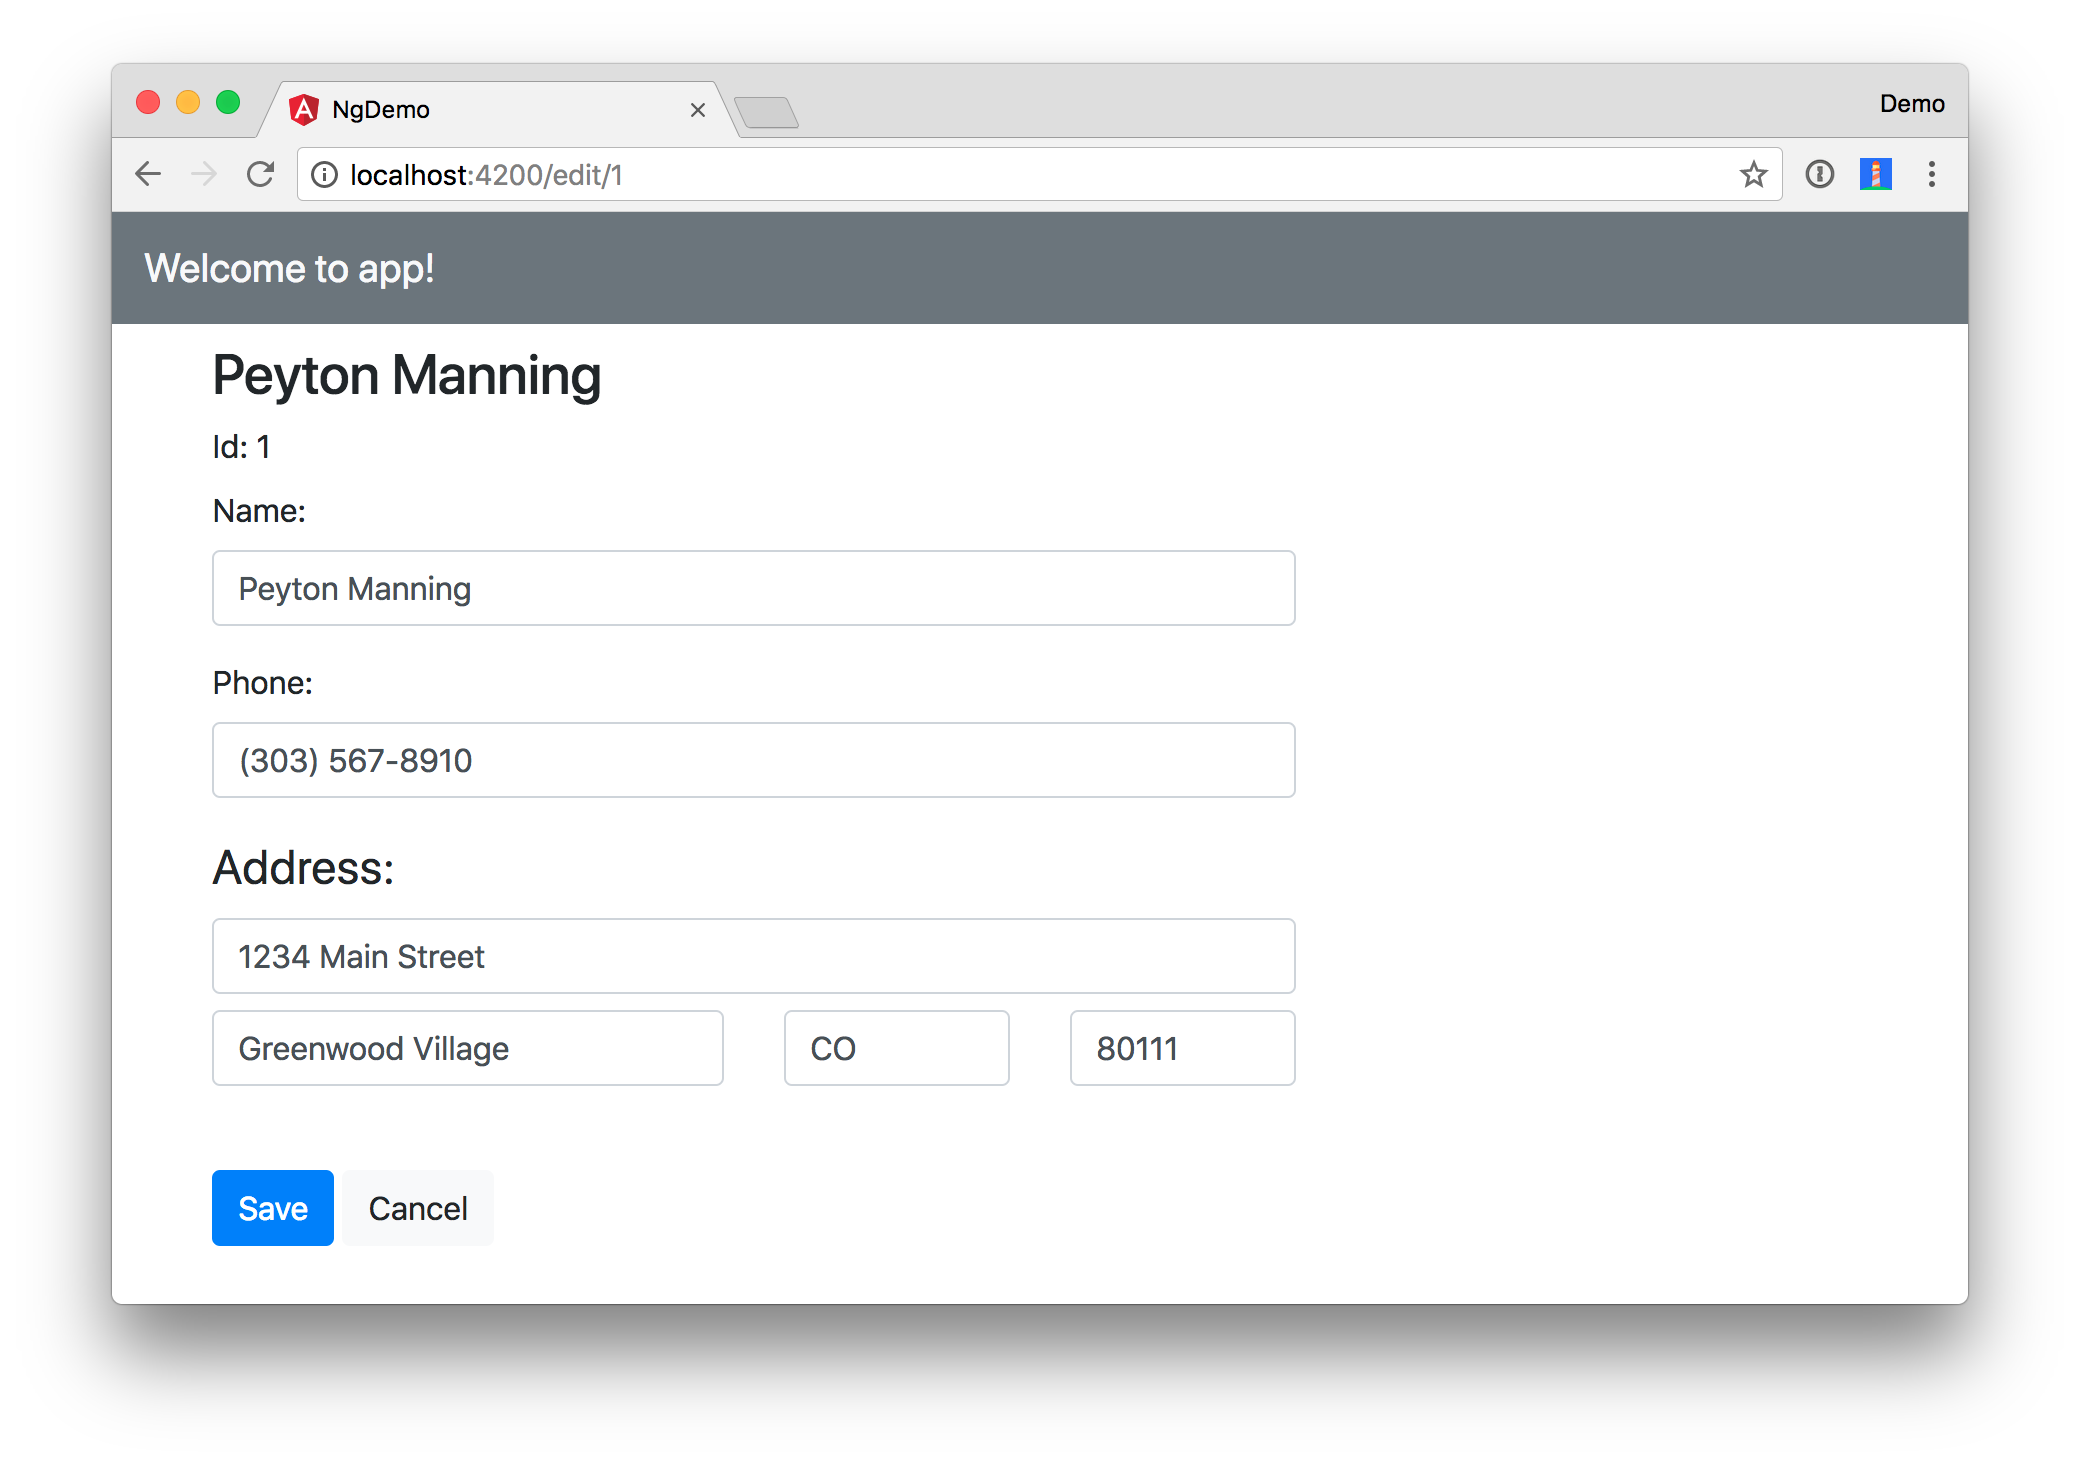
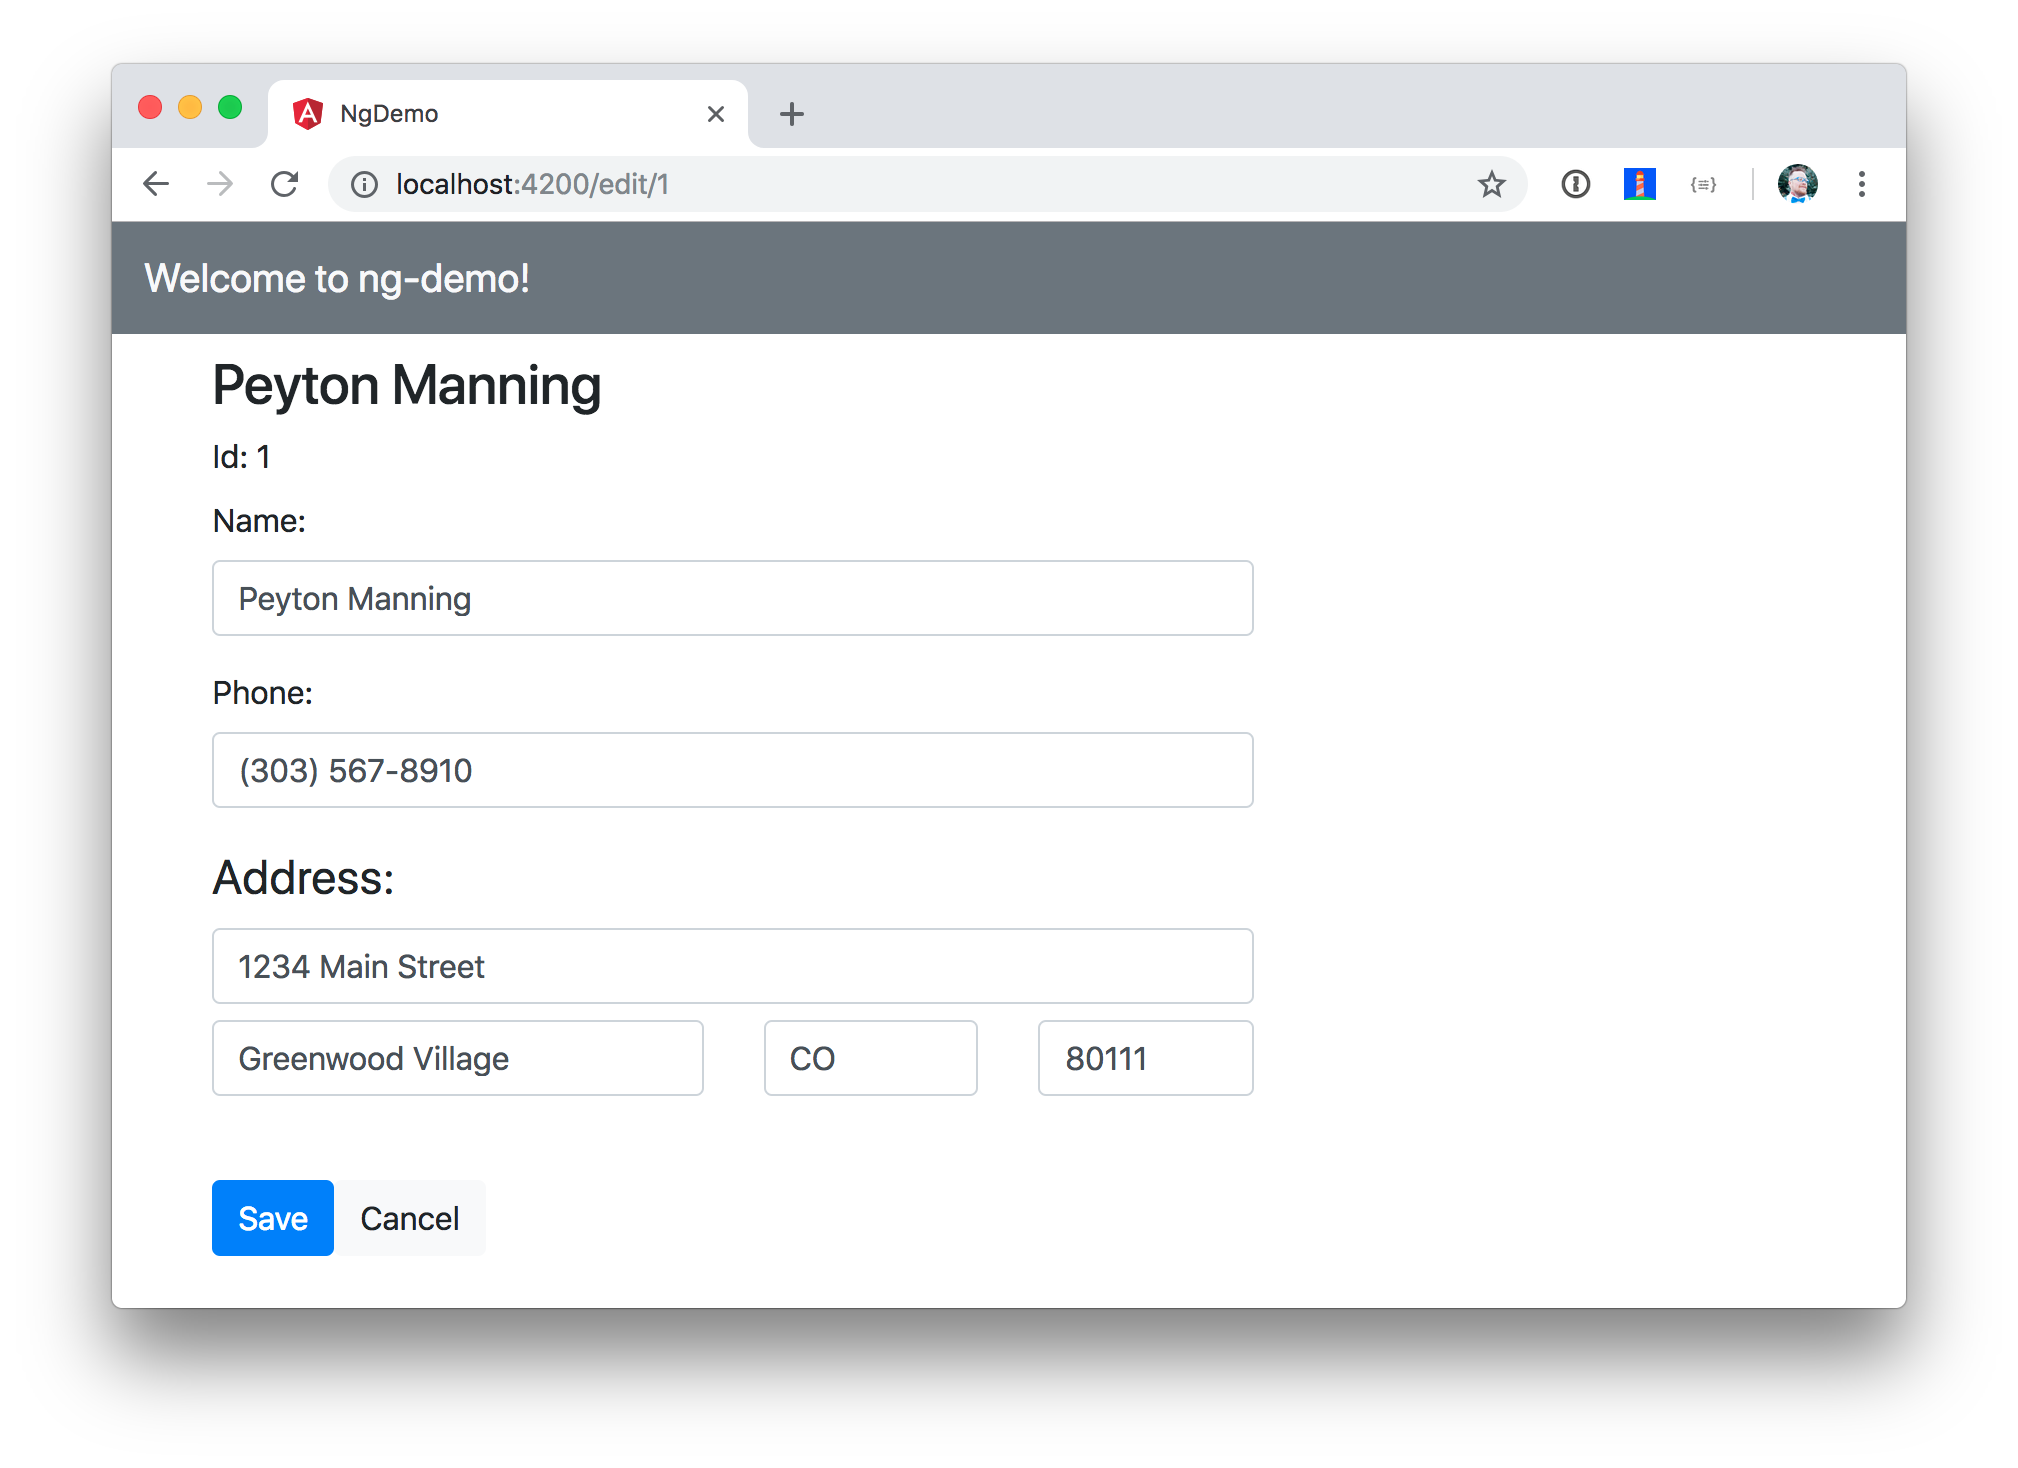
Upgrade Bootstrap branch to Angular 7 (#47)

diff --git a/src/app/edit/edit.component.html b/src/app/edit/edit.component.html
@@ -1,31 +1,39 @@
-<div *ngIf="person">
-  <h3>{{editName}}</h3>
-  <form (ngSubmit)="save()" #editForm="ngForm">
+<div *ngIf="person" class="col-8">
+  <h3 class="mt-2">{{editName}}</h3>
+  <form #editForm="ngForm" (ngSubmit)="save()">
     <div>
       <label>Id:</label>
       {{person.id}}
     </div>
-    <div>
+    <div class="form-group">
       <label>Name:</label>
-      <input #name="ngModel" [(ngModel)]="editName" name="name" id="name" placeholder="name" required/>
-      <div [hidden]="name.valid || name.pristine" style="color: red">
+      <input [(ngModel)]="editName" name="name" id="name" placeholder="name" required class="form-control" #name="ngModel"/>
+      <div [hidden]="name.valid || name.pristine" style="display: block" class="invalid-feedback">
         Name is required
       </div>
     </div>
-    <div>
+    <div class="form-group">
       <label>Phone:</label>
-      <input [(ngModel)]="editPhone" name="phone" id="phone" placeholder="Phone"/>
+      <input [(ngModel)]="editPhone" name="phone" id="phone" placeholder="Phone" class="form-control"/>
     </div>
-    <fieldset>
-      <legend>Address:</legend>
+    <fieldset class="form-group">
+      <legend class="col-form-legend">Address:</legend>
       <address>
-        <input [(ngModel)]="editAddress.street" name="street" id="street"><br/>
-        <input [(ngModel)]="editAddress.city" name="city" id="city">,
-        <input [(ngModel)]="editAddress.state" name="state" id="state" size="2">
-        <input [(ngModel)]="editAddress.zip" name="zip" id="zip" size="5">
+        <input [(ngModel)]="editAddress.street" name="street" id="street" class="form-control mb-2">
+        <div class="row">
+          <div class="col-6">
+            <input [(ngModel)]="editAddress.city" name="city" id="city" class="form-control">
+          </div>
+          <div class="col-3">
+            <input [(ngModel)]="editAddress.state" name="state" id="state" size="2" class="form-control">
+          </div>
+          <div class="col-3">
+            <input [(ngModel)]="editAddress.zip" name="zip" id="zip" size="5" class="form-control">
+          </div>
+        </div>
       </address>
     </fieldset>
-    <button type="submit" id="save" [disabled]="!editForm.form.valid">Save</button>
-    <button (click)="cancel()" id="cancel">Cancel</button>
+    <button type="submit" id="save" class="btn btn-primary" [disabled]="!editForm.form.valid">Save</button>
+    <button (click)="cancel()" id="cancel" class="btn btn-light">Cancel</button>
   </form>
 </div>

diff --git a/src/app/search/search.component.html b/src/app/search/search.component.html
@@ -1,9 +1,9 @@
-<h2>Search</h2>
-<form>
-  <input type="search" name="query" [(ngModel)]="query" (keyup.enter)="search()">
-  <button type="button" (click)="search()">Search</button>
+<h2 class="mt-2">Search</h2>
+<form class="form-inline">
+  <input type="search" name="query" [(ngModel)]="query" (keyup.enter)="search()" placeholder="Search" class="form-control mr-sm-2">
+  <button type="button" (click)="search()" class="btn btn-primary">Search</button>
 </form>
-<table *ngIf="searchResults">
+<table *ngIf="searchResults" class="table">
   <thead>
   <tr>
     <th>Name</th>

diff --git a/src/app/app.module.ts b/src/app/app.module.ts
@@ -7,6 +7,7 @@ import { SearchComponent } from './search/search.component';
 import { FormsModule } from '@angular/forms';
 import { HttpClientModule } from '@angular/common/http';
 import { EditComponent } from './edit/edit.component';
+import { NgbModule } from '@ng-bootstrap/ng-bootstrap';
 
 @NgModule({
   declarations: [
@@ -18,7 +19,8 @@ import { EditComponent } from './edit/edit.component';
     BrowserModule,
     AppRoutingModule,
     FormsModule,
-    HttpClientModule
+    HttpClientModule,
+    NgbModule
   ],
   providers: [],
   bootstrap: [AppComponent]

diff --git a/src/app/app.component.spec.ts b/src/app/app.component.spec.ts
@@ -26,10 +26,10 @@ describe('AppComponent', () => {
     expect(app.title).toEqual('ng-demo');
   });
 
-  it('should render title in a h1 tag', () => {
+  it('should render title in a nav tag', () => {
     const fixture = TestBed.createComponent(AppComponent);
     fixture.detectChanges();
     const compiled = fixture.debugElement.nativeElement;
-    expect(compiled.querySelector('h1').textContent).toContain('Welcome to ng-demo!');
+    expect(compiled.querySelector('nav').textContent).toContain('Welcome to ng-demo!');
   });
 });

diff --git a/src/app/app.component.html b/src/app/app.component.html
@@ -1,3 +1,6 @@
-<h1>Welcome to {{ title }}!</h1>
-
-<router-outlet></router-outlet>
+<nav class="navbar navbar-light bg-secondary">
+  <a class="navbar-brand text-light" href="#">Welcome to {{ title }}!</a>
+</nav>
+<div class="container-fluid">
+  <router-outlet></router-outlet>
+</div>

diff --git a/e2e/src/app.po.ts b/e2e/src/app.po.ts
@@ -6,6 +6,6 @@ export class AppPage {
   }
 
   getTitleText() {
-    return element(by.css('app-root h1')).getText();
+    return element(by.css('app-root nav')).getText();
   }
 }
